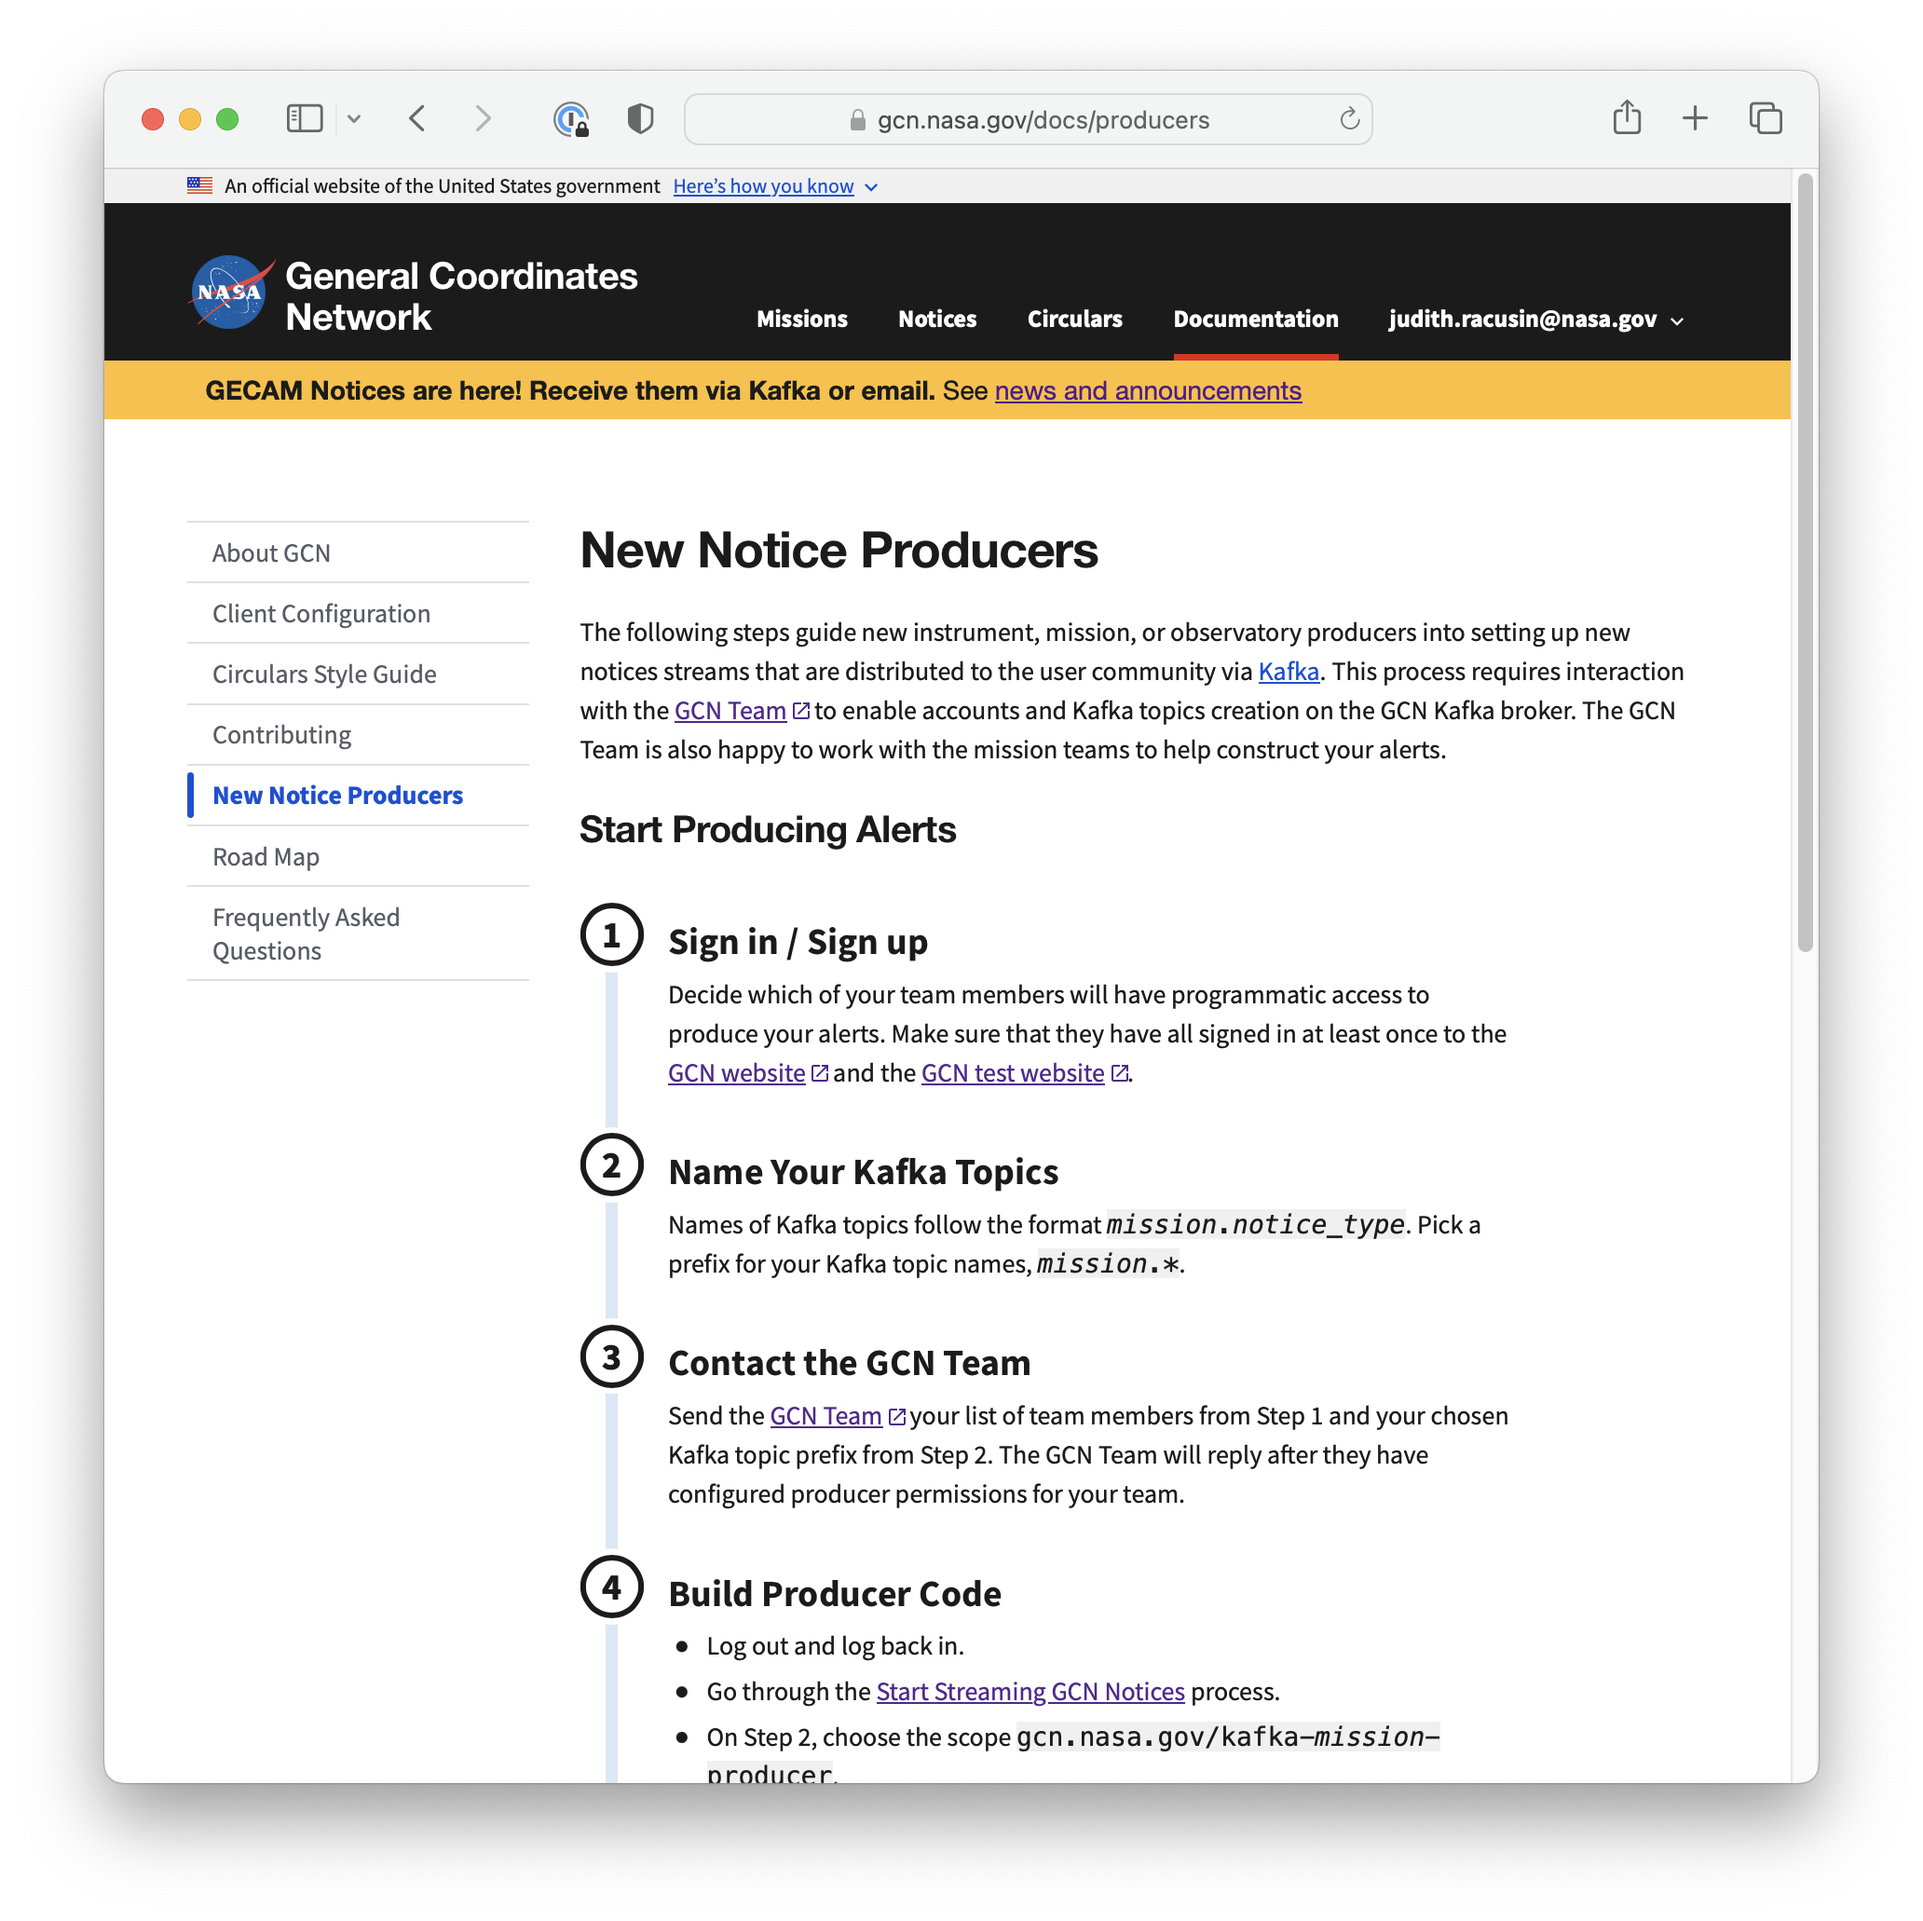
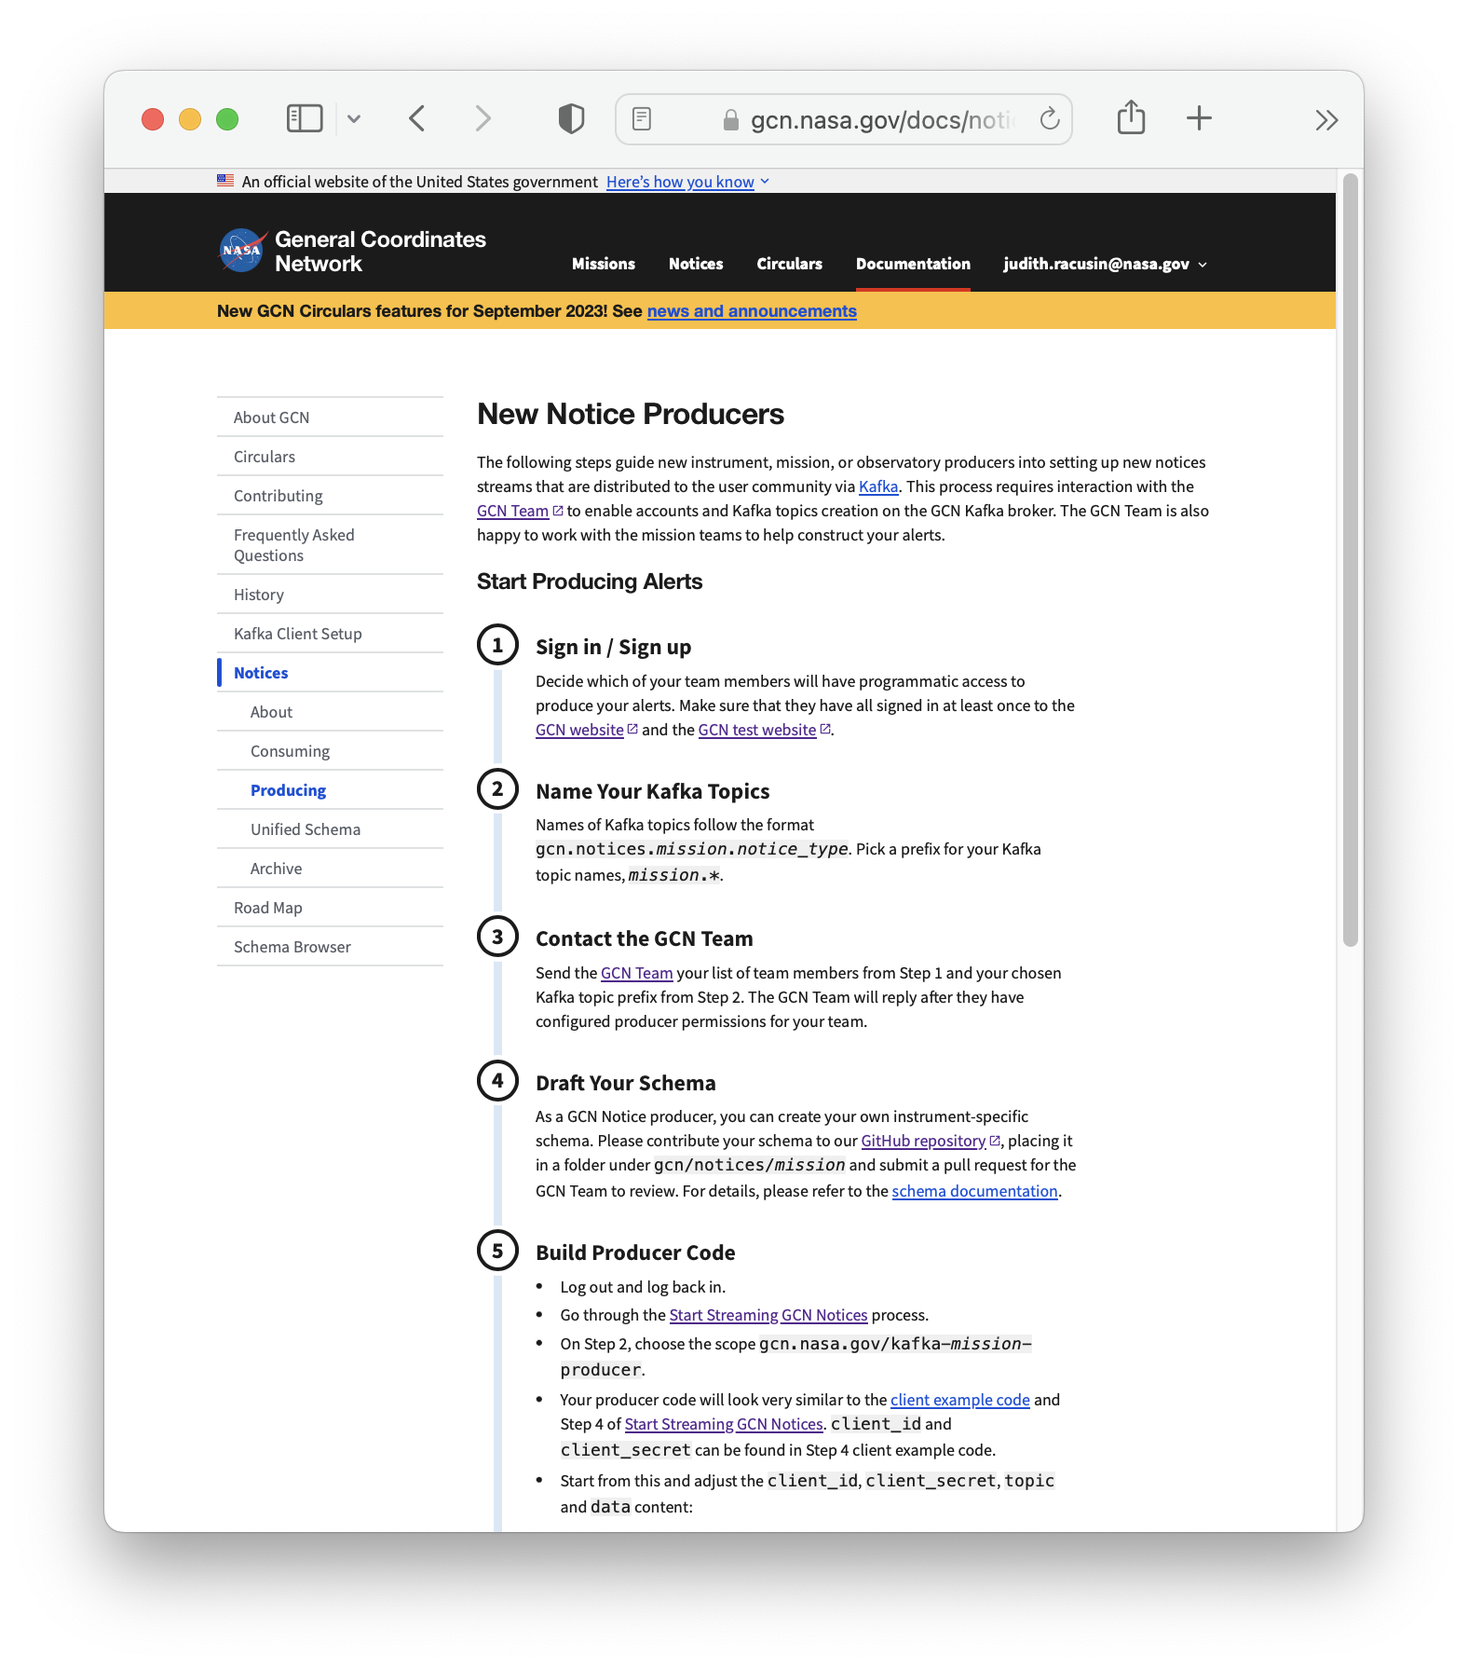
added schema browser and new docs

Changed region(s): [[0.0311, 0.0312, 0.9638, 0.9688]]

diff --git a/index.html b/index.html
@@ -1048,62 +1048,31 @@ On April 17, 2023, GCN Circulars moved from the old site to the new one. If you 
         * All new notice topics will only be distributed by GCN Kafka
         * See [step-by-step instructions](https://gcn.nasa.gov/docs/producers)
         * Preferred notice format is JSON
-        * [Unified JSON schema](https://github.com/nasa-gcn/gcn-schema) in development
+        * [Unified JSON schema](https://github.com/nasa-gcn/gcn-schema) provides common core
       </textarea>
     </div>
   </div>
 </section>
 
-    <section data-markdown>
+<section>
+  <div class="image-and-caption">
+    <div>
+      <img src="img/screen-shot-schema-browser.png" width="800" alt="Screen shot of Notices Schema Browser">
+    </div>
+    <div data-markdown>
       <textarea data-template>
         ## Unified schema and alert format for GCN Kafka
         * JSON schema with common core fields
         * Instrument/mission/observatory specific fields where needed
+        * <a href="https://gcn.nasa.gov/docs/notices/schema">Schema development documentation</a>
+        * <a href="https://gcn.nasa.gov/docs/schema">Schema Browser</a>
         * <a href="https://github.com/nasa-gcn/gcn-schema">https://github.com/nasa-gcn/gcn-schema</a>
-
-        JSON example (in development):
-        ```
-        {
-          "$id": "https://github.com/nasa-gcn/gcn-schema/blob/main/gcn/notices/fermi/gbm/Trigger.schema.json",
-          "$schema": "https://json-schema.org/draft/2020-12/schema",
-          "title": "Trigger",
-          "description": "fermi gbm Trigger",
-          "type": "object",
-          "properties": {
-            "alert_info": {
-              "$ref": "https://github.com/nasa-gcn/gcn-schema/blob/main/gcn/notices/core/AlertInfo.schema.json"
-            },
-            "identifiers": {
-              "$ref": "https://github.com/nasa-gcn/gcn-schema/blob/main/gcn/notices/core/Identifiers.schema.json"
-            },
-            "event_info": {
-              "$ref": "https://github.com/nasa-gcn/gcn-schema/blob/main/gcn/notices/core/EventInfo.schema.json"
-            },
-            "datetime": {
-              "$ref": "https://github.com/nasa-gcn/gcn-schema/blob/main/gcn/notices/core/DateTime.schema.json"
-            },
-            "localization": {
-              "$ref": "https://github.com/nasa-gcn/gcn-schema/blob/main/gcn/notices/core/Localization.schema.json"
-            },
-            "statistics": {
-              "$ref": "https://github.com/nasa-gcn/gcn-schema/blob/main/gcn/notices/core/Statistics.schema.json"
-            },
-            "hardness_ratio": {
-              "$ref": "https://github.com/nasa-gcn/gcn-schema/blob/main/gcn/notices/core/HardnessRatio.schema.json"
-            },
-            "comments": {
-              "$ref": "https://github.com/nasa-gcn/gcn-schema/blob/main/gcn/notices/core/Comments.schema.json"
-            },
-            "specific": {
-              "$ref": "Specific.schema.json"
-            }
-          }
-        }
-        ```
-
       </textarea>
-    </section>
+    </div>
+  </div>
+</section>
 
+  </section>
     <section class="conclusion-links">
       <h1>Thanks for listening!</h1>
       <p>Web site: <a href="https://gcn.nasa.gov/">https://gcn.nasa.gov</a></p>
